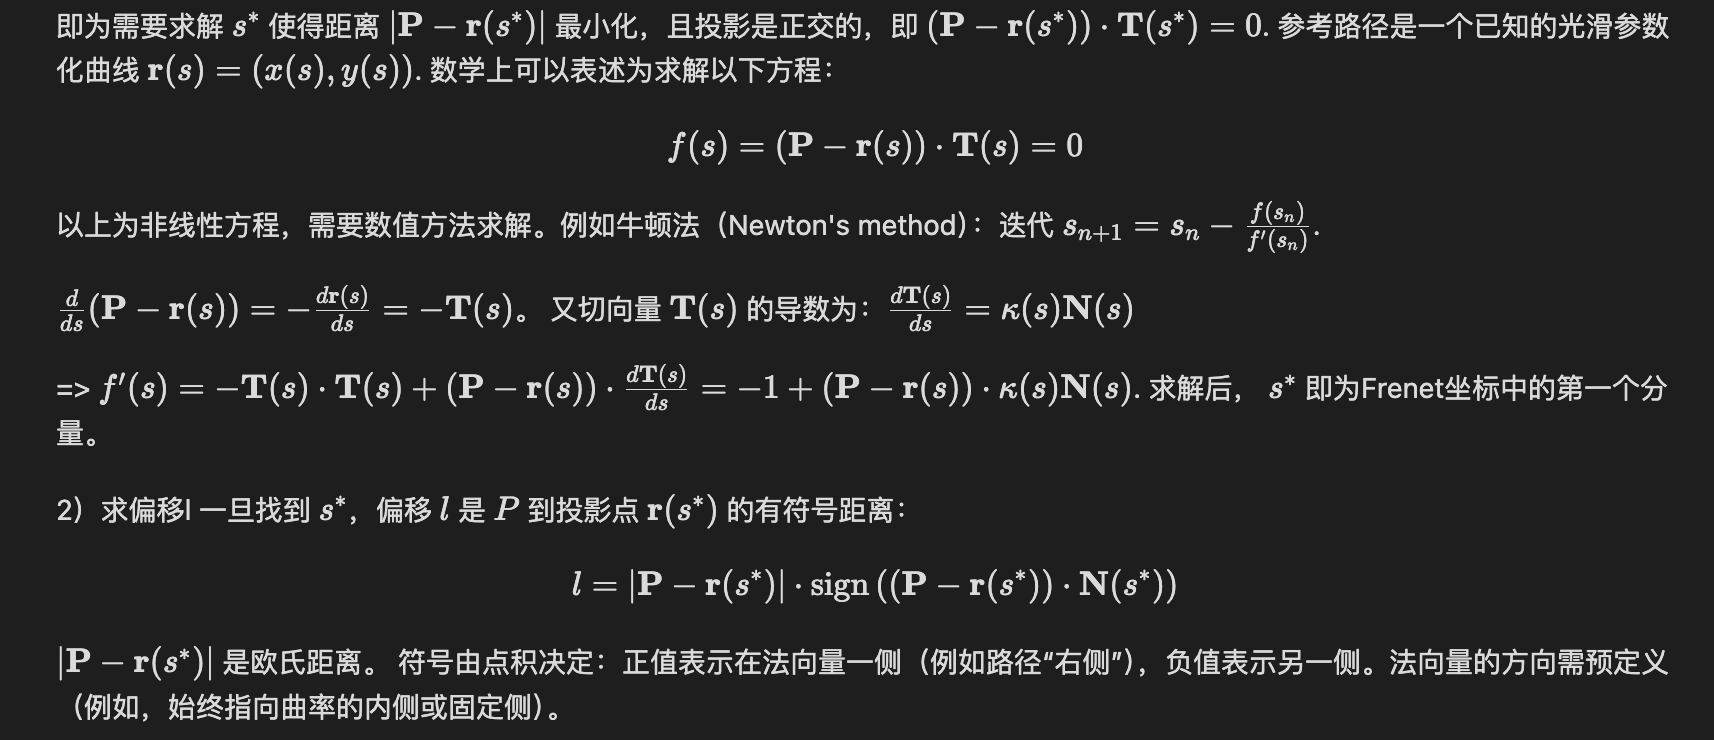
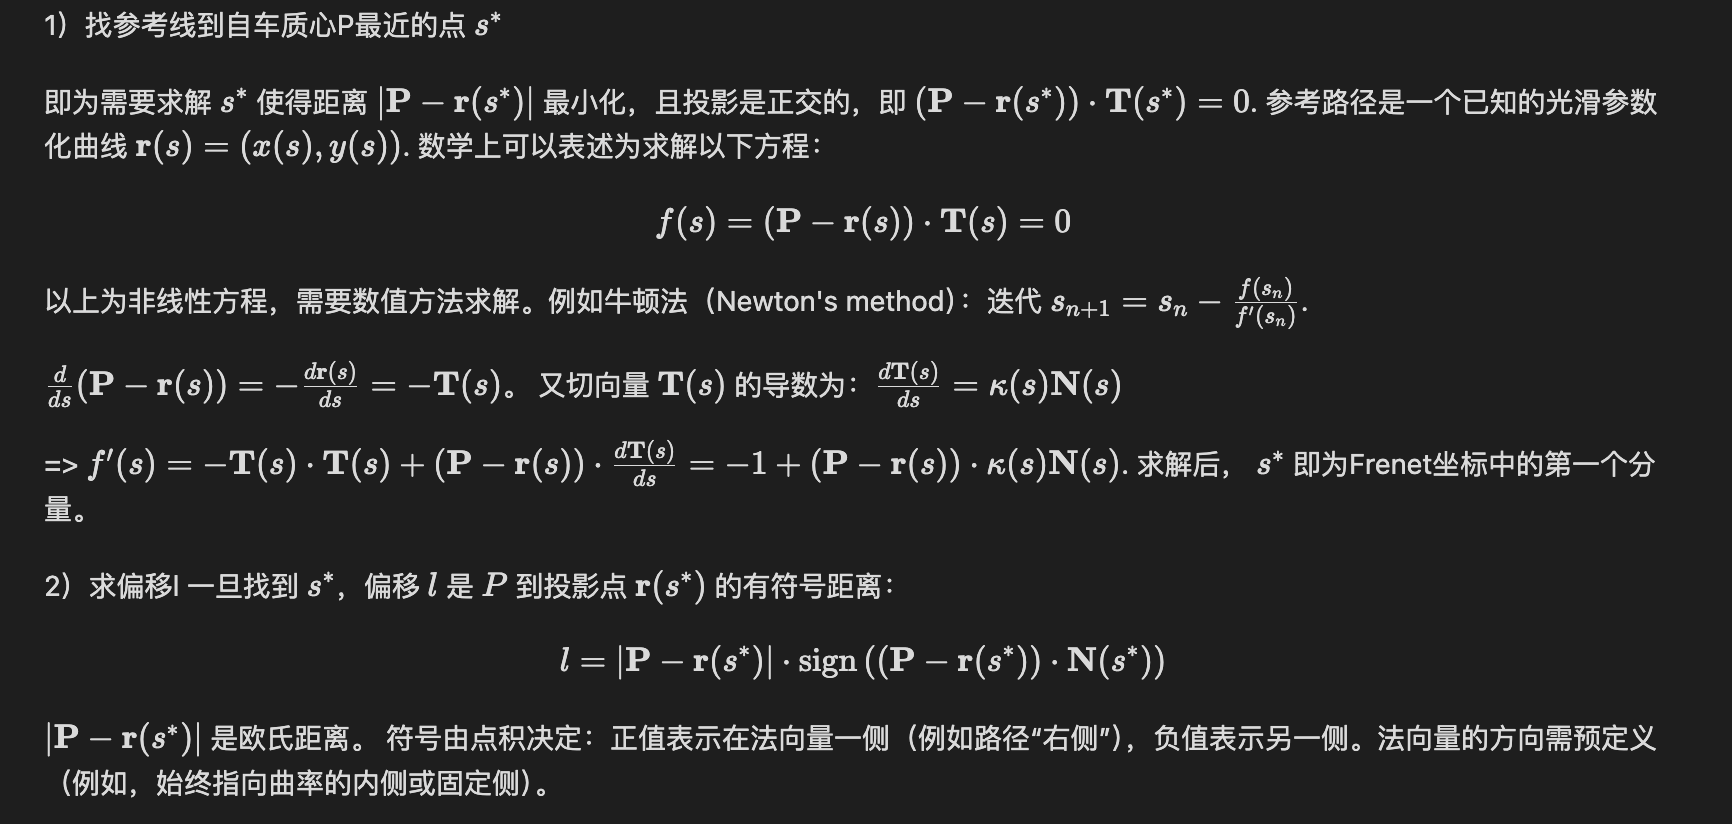
update screenshot

diff --git a/lecture_3_route_and_trajectory_planning/note.md b/lecture_3_route_and_trajectory_planning/note.md
@@ -204,12 +204,12 @@ sample implementation
   - Cartesian -> Frenet $\mathbf{P}$ -> ($s^* $, l)
   - Frenet -> Cartesian $\mathbf{P} = \mathbf{r}(s) + l \cdot \mathbf{N}(s)$
 
-1）找参考线到自车质心P最近的点 s_star
-
 ![推导](./math_frenet_to_cartesian.png)
 
 <details>
 <summary>推导 </summary>
+
+1）找参考线到自车质心P最近的点 $ s^* $
 
 即为需要求解 $ s^* $ 使得距离 $|\mathbf{P} - \mathbf{r}(s^*)|$ 最小化，且投影是正交的，即 $(\mathbf{P} - \mathbf{r}(s^*)) \cdot \mathbf{T}(s^*) = 0$. 参考路径是一个已知的光滑参数化曲线 $\mathbf{r}(s) = (x(s), y(s))$. 数学上可以表述为求解以下方程：
 $$f(s) = (\mathbf{P} - \mathbf{r}(s)) \cdot \mathbf{T}(s) = 0$$
@@ -220,7 +220,7 @@ $\frac{d}{ds}(\mathbf{P} - \mathbf{r}(s)) = - \frac{d\mathbf{r}(s)}{ds} = - \mat
 
 => $ f'(s) = - \mathbf{T}(s) \cdot \mathbf{T}(s) + (\mathbf{P} - \mathbf{r}(s)) \cdot \frac{d\mathbf{T}(s)}{ds} = -1 + (\mathbf{P} - \mathbf{r}(s)) \cdot \kappa(s) \mathbf{N}(s)$.  求解后， $s^*$ 即为Frenet坐标中的第一个分量。
 
-  2）求偏移l
+2）求偏移l
 一旦找到 $ s^* $，偏移 $ l $ 是 $ P $ 到投影点 $ \mathbf{r}(s^*) $ 的有符号距离：
 $$l = |\mathbf{P} - \mathbf{r}(s^*)| \cdot \operatorname{sign} \left( (\mathbf{P} - \mathbf{r}(s^*)) \cdot \mathbf{N}(s^*) \right)$$
 
